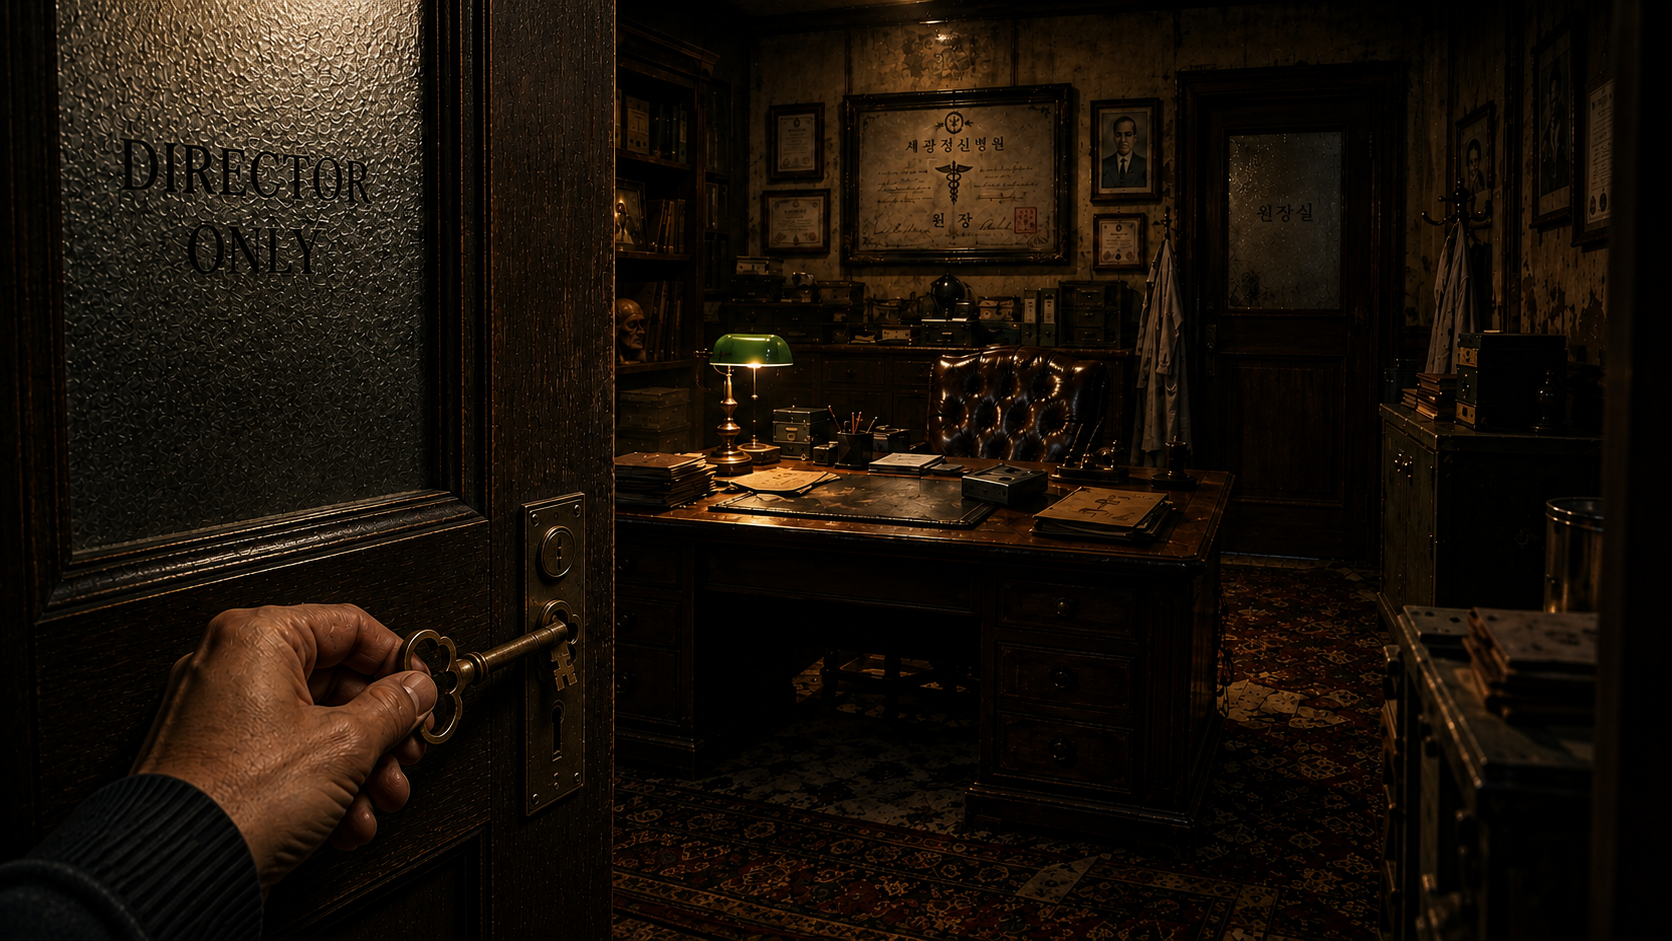
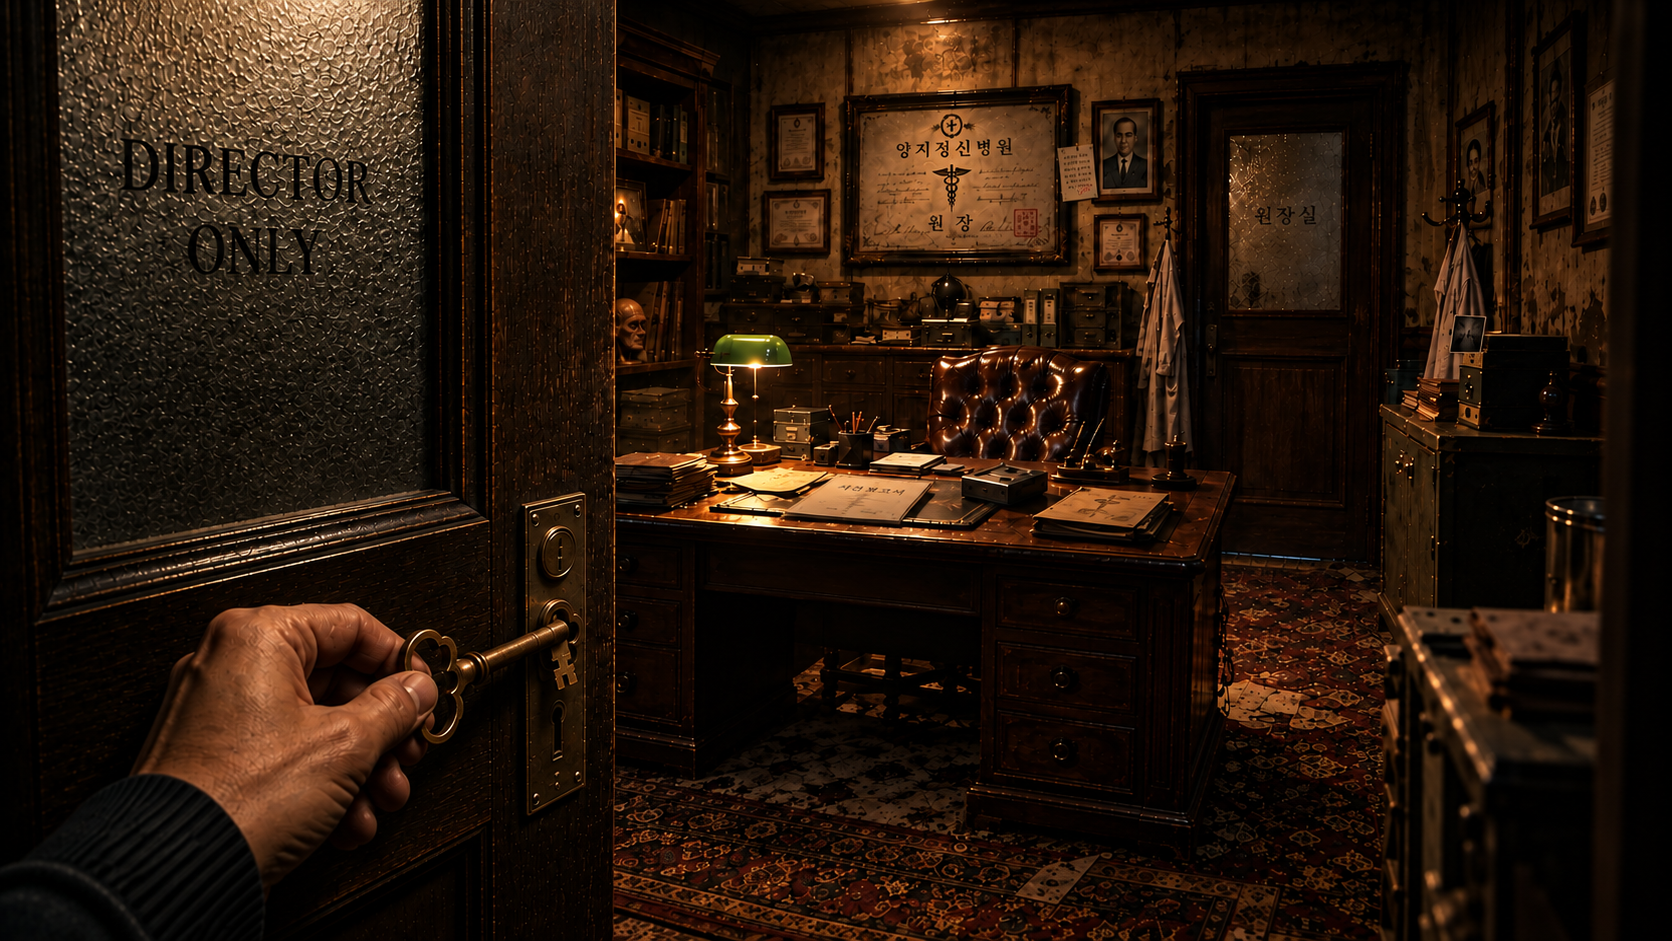
원장실 사진변경 및 아이콘 위치 변경입니다

Changed region(s): [[0.0933, 0.0, 0.9641, 1.0], [0.0311, 0.0, 0.311, 0.4315], [0.4665, 0.7088, 0.5287, 0.7705]]

diff --git a/js/scenes/chapter3.js b/js/scenes/chapter3.js
@@ -1,11 +1,9 @@
 
 import { items } from '../data/items.js';
 import {
-  handleInventoryClick,
-  inventoryClickButton,
   renderInventory,
 } from '../dom/renderInventory.js';
-import { checkChapterClear, nextChapterModal, nextChapterOption } from '../dom/renderModal.js';
+import { checkChapterClear} from '../dom/renderModal.js';
 import { initDialogue } from '../game/index.js';
 import {
   addItem,
@@ -17,7 +15,6 @@ import { gameState } from '../state/gameState.js';
 import { callPuzzle } from '../game/puzzle.js';
 import { objects } from '../data/objects.js';
 import { gameSave } from '../state/storage.js';
-import { renderEnding } from './ending.js';
 import { initHint } from '../game/hint.js';
 import { getNode } from '../../lib/dom/getNode.js';
 

diff --git a/css/chapter3.css b/css/chapter3.css
@@ -39,19 +39,19 @@
 /* 책장 */
 .search-shelf {
 
-  left: 16%;
-  top: 30%;
+  left: 18%;
+  top: 40%;
 }
 
 /* 왼쪽 서랍장 */
 .search-cabinet {
-  left: 11%;
-  top: 47%;
+  left: 7%;
+  top: 49%;
 }
 
 /* 그림 */
 .search-portrait {
-  left: 52%;
+  left: 57%;
   top: 20%;
 }
 
@@ -63,8 +63,8 @@
 
 /* 원장실 문 */
 .search-door {
-  left: 82%;
-  top: 30%;
+  left: 87%;
+  top: 35%;
 }
 
 .investigateIcon.is-checked {
